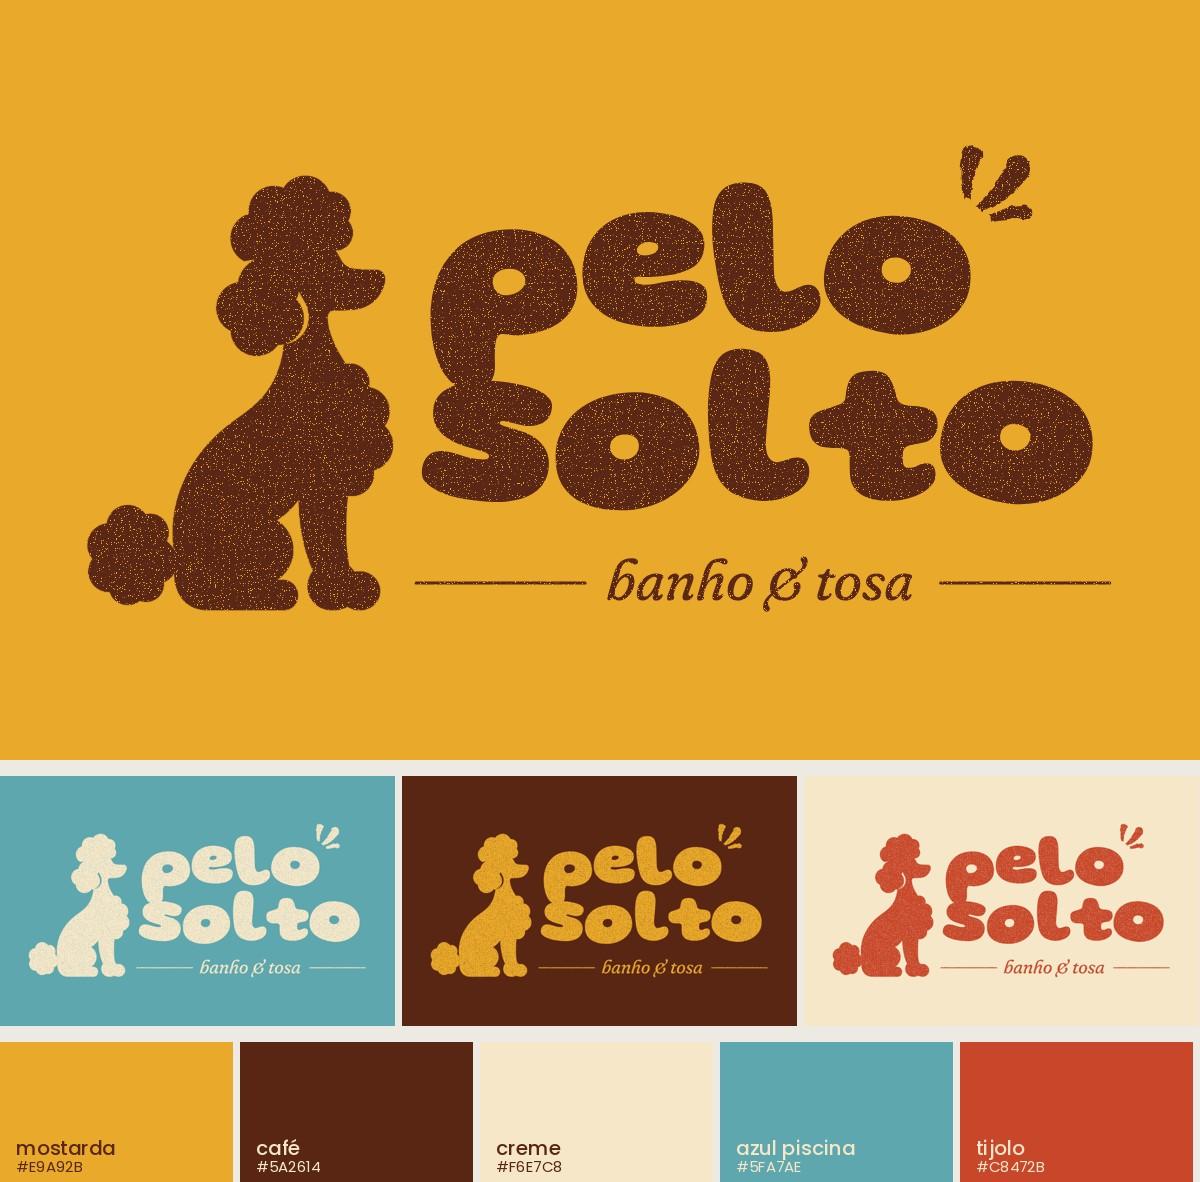
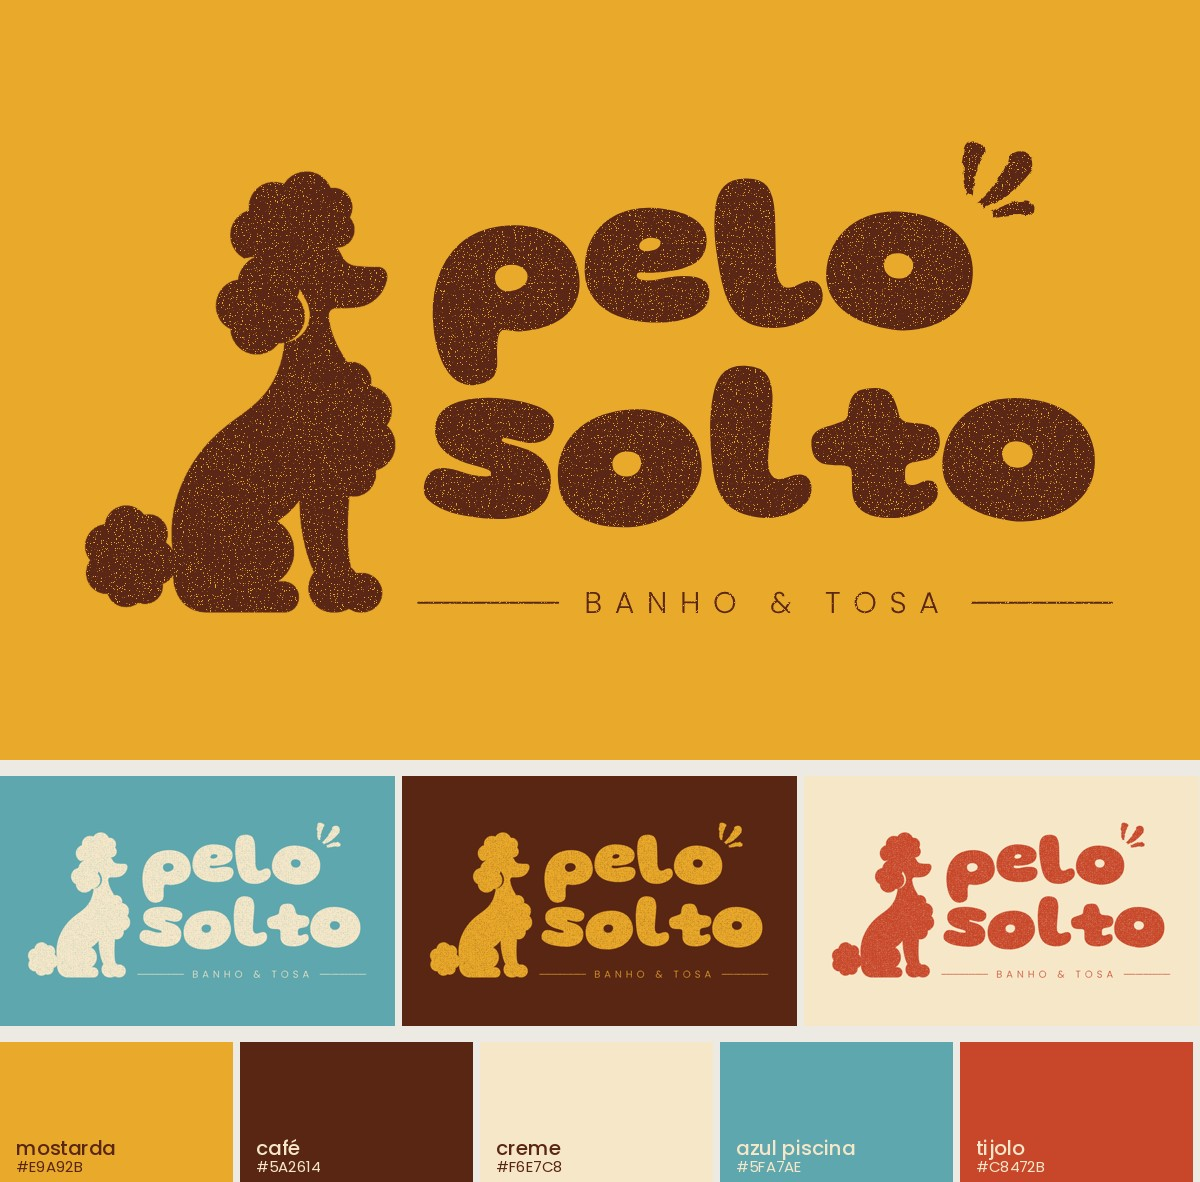
EMS: pelo solto, BANHO & TOSA em Poppins Light espaçada e p/s desencostados
Claude-Session: https://claude.ai/code/session_01CmCiK9WG5RWJH1hBNUU9U9

diff --git a/Emi/ems-5-direcoes-pet/projeto/marcas/pelo-solto/logo.html b/Emi/ems-5-direcoes-pet/projeto/marcas/pelo-solto/logo.html
@@ -3,12 +3,14 @@
      - "esses brilhinhos tão 100% vetor": saem as estrelas de quatro pontas e as gotas lisas; entram três respingos de pincel,
        cada um de uma largura, com a borda tremida (feTurbulence + feDisplacementMap) e um grão de tinta leve em tudo;
      - "precisa ter mais movimento nessa fonte": cada letra dança (ângulo, subida e tamanho próprios), como no TOTÓ;
-     - "o banho e tosa tá igual o título, pode ser mais delicado": vira Fraunces itálico leve, entre dois fios finos que vão
-       da margem do texto até o fim de "solto" (assim continua alinhado dos dois lados).
+     - "o banho e tosa tá igual o título, pode ser mais delicado": "letra de forma, tipo uma Poppins ou mais delicada ainda,
+       espaçada" → Poppins Light em caixa alta bem espaçada, entre dois fios finos de margem a margem (o itálico não era isso);
+     - "o p e o s estão se encostando": mais entrelinha entre "pelo" e "solto".
      O poodle continua o que ela aprovou (poodle-sentado.png), sem mexer. A v4 fica em logo-v4.html.
      ?fundo=&tinta= · ?w=&h=&escala=&dx=&dy= · ?grao=0 -->
 <html><head><meta charset="utf-8"><style>
 @font-face { font-family: Gluten; src: url(../../fonts/Gluten.woff2); font-weight: 100 900; }
+@font-face { font-family: PoppinsL; src: url(../../fonts/Poppins-300.woff2); font-weight: 300; }
 @font-face { font-family: FrauncesI; src: url(../../fonts/FrauncesItalic.woff2); font-weight: 100 900; font-style: italic; }
 html, body { margin: 0; }
 .palco { position: relative; overflow: hidden; background: var(--fundo); }
@@ -60,18 +62,17 @@ function palavra(txt, fs, x0, base) {
 document.fonts.load('900 100px Gluten').then(() => document.fonts.load('italic 400 100px FrauncesI')).then(() => {
   const FS = 220, X = 0;
   const t1 = mede('pelo', G(FS)), t2 = mede('solto', G(FS));
-  const y1 = 0, y2 = y1 + t1.desce * .25 + 22 + t2.sobe;
+  const y1 = 0, y2 = y1 + t1.desce * .5 + 30 + t2.sobe;   // o "p" (desce 6) não pode encostar no "s" (sobe 4)
   const g1 = palavra('pelo', FS, X + t1.esq, y1), g2 = palavra('solto', FS, X + t2.esq, y2);
   // margens reais pela caixa das palavras já dançando
   const b1 = g1.getBBox(), b2 = g2.getBBox(), esq = Math.min(b1.x, b2.x), dir = b2.x + b2.width;
-  // banho & tosa: itálico leve entre dois fios finos, da margem esquerda até o fim de "solto"
-  const FS3 = 58, F3 = `italic 400 ${FS3}px FrauncesI`, t3 = mede('banho & tosa', F3);
-  const larg3 = t3.esq + t3.dir, meio = (esq + dir) / 2, y3 = b2.y + b2.height - 6 + t3.sobe;
-  el('text', { x: meio - larg3 / 2 + t3.esq, y: y3, 'font-family': 'FrauncesI', 'font-style': 'italic', 'font-weight': 400, 'font-size': FS3, fill: C.tinta,
-    style: "font-variation-settings:'SOFT' 100,'WONK' 1,'opsz' 72" }).textContent = 'banho & tosa';
-  const yf = y3 - t3.sobe * .38, folga = 22;
-  el('line', { x1: esq + 4, y1: yf, x2: meio - larg3 / 2 - folga, y2: yf, stroke: C.tinta, 'stroke-width': 3, 'stroke-linecap': 'round' });
-  el('line', { x1: meio + larg3 / 2 + folga, y1: yf, x2: dir - 4, y2: yf, stroke: C.tinta, 'stroke-width': 3, 'stroke-linecap': 'round' });
+  // BANHO & TOSA: letra de forma fina (Poppins Light), caixa alta bem espaçada, entre dois fios finos de margem a margem
+  const FS3 = 30, LS3 = FS3 * .42, F3 = `300 ${FS3}px PoppinsL`, t3 = mede('BANHO & TOSA', F3, LS3);
+  const larg3 = t3.esq + t3.dir, meio = (esq + dir) / 2, y3 = b2.y + b2.height + 14 + t3.sobe;
+  el('text', { x: meio - larg3 / 2 + t3.esq, y: y3, 'font-family': 'PoppinsL', 'font-weight': 300, 'font-size': FS3, 'letter-spacing': LS3, fill: C.tinta }).textContent = 'BANHO & TOSA';
+  const yf = y3 - t3.sobe * .5, folga = 26;
+  el('line', { x1: esq + 4, y1: yf, x2: meio - larg3 / 2 - folga, y2: yf, stroke: C.tinta, 'stroke-width': 2, 'stroke-linecap': 'round' });
+  el('line', { x1: meio + larg3 / 2 + folga, y1: yf, x2: dir - 4, y2: yf, stroke: C.tinta, 'stroke-width': 2, 'stroke-linecap': 'round' });
   // poodle: do topo das letras até a base do subtítulo
   const topo = Math.min(b1.y, b2.y), base = y3 + t3.desce, alt = base - topo, ar = 964 / 1368, larg = alt * ar;
   el('image', { href: 'poodle-sentado.png', x: esq - larg - FS * .08, y: topo, width: larg, height: alt, filter: 'url(#tinge)' });
